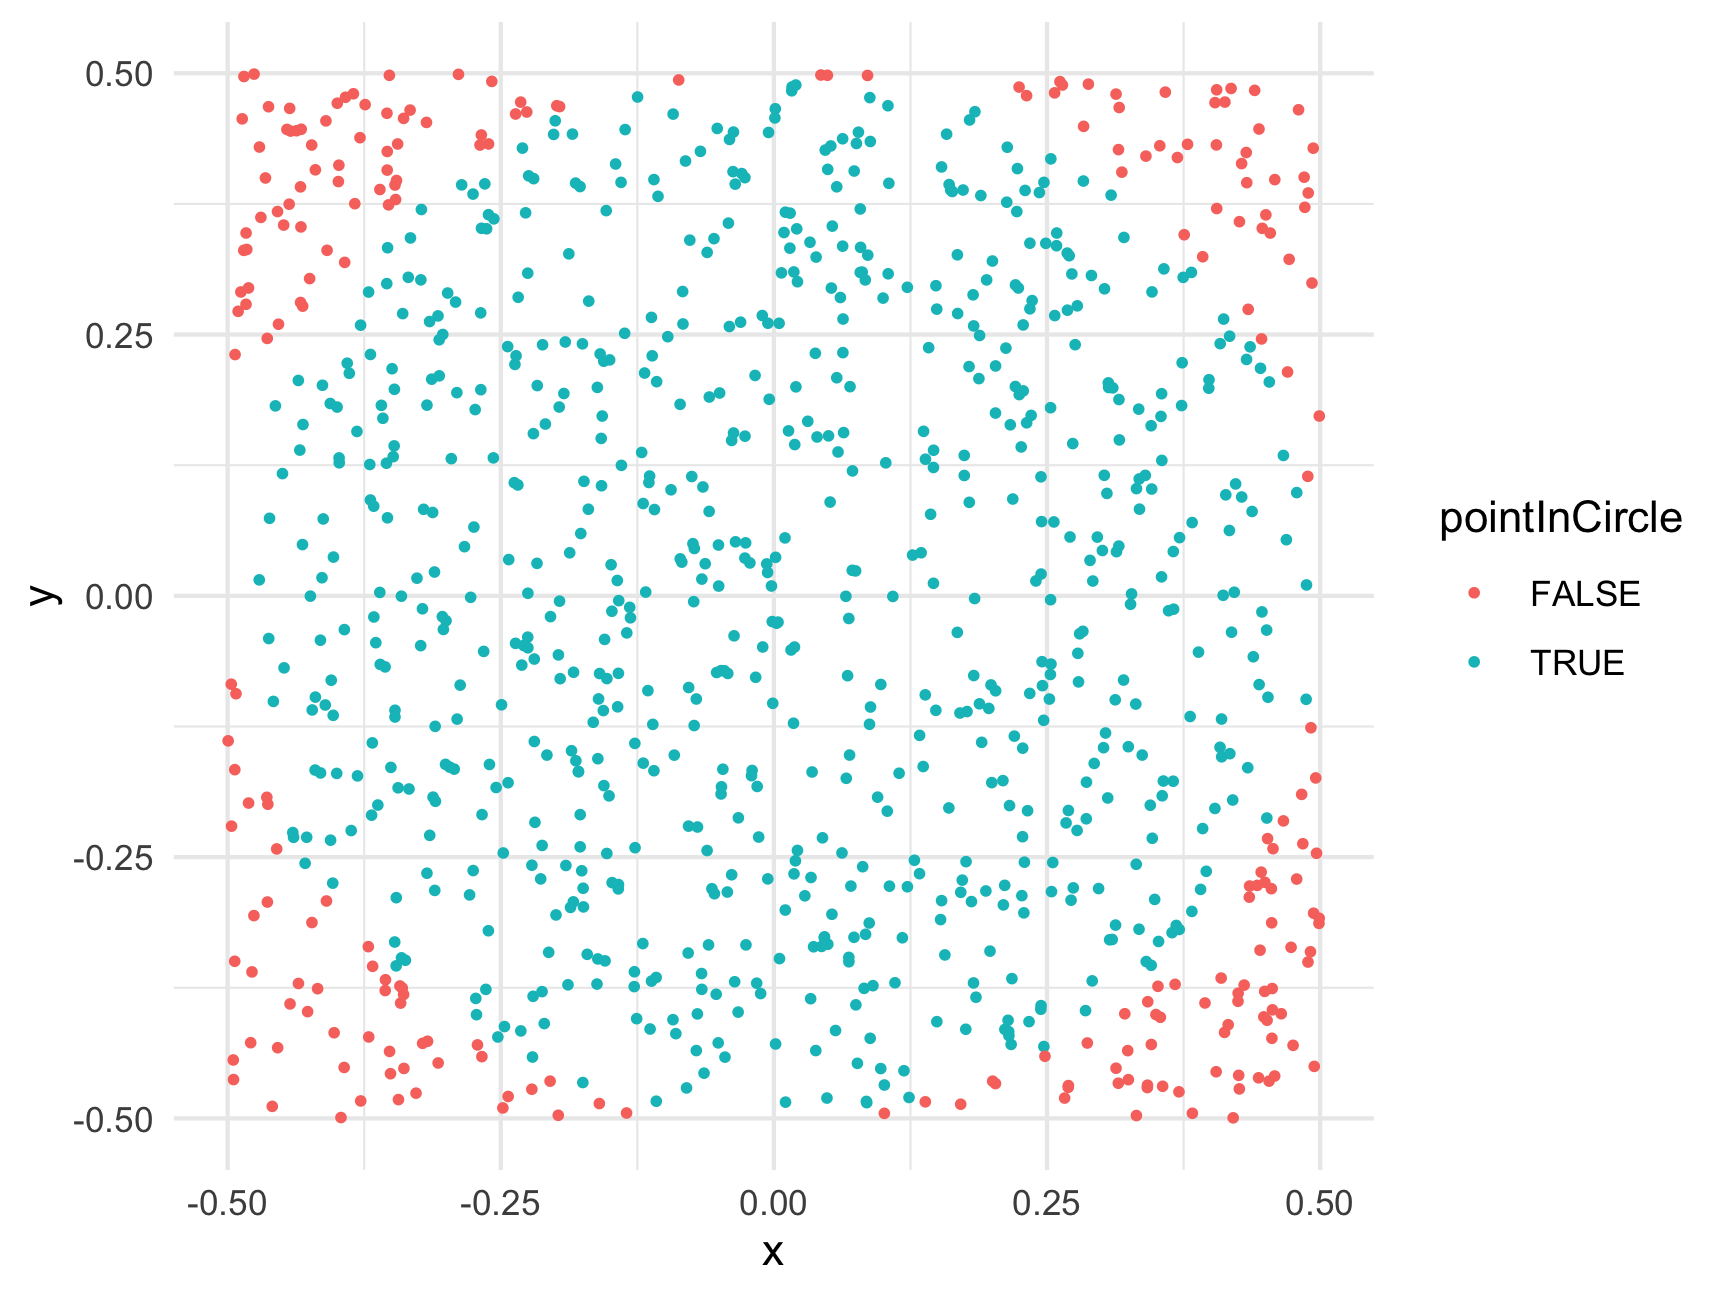
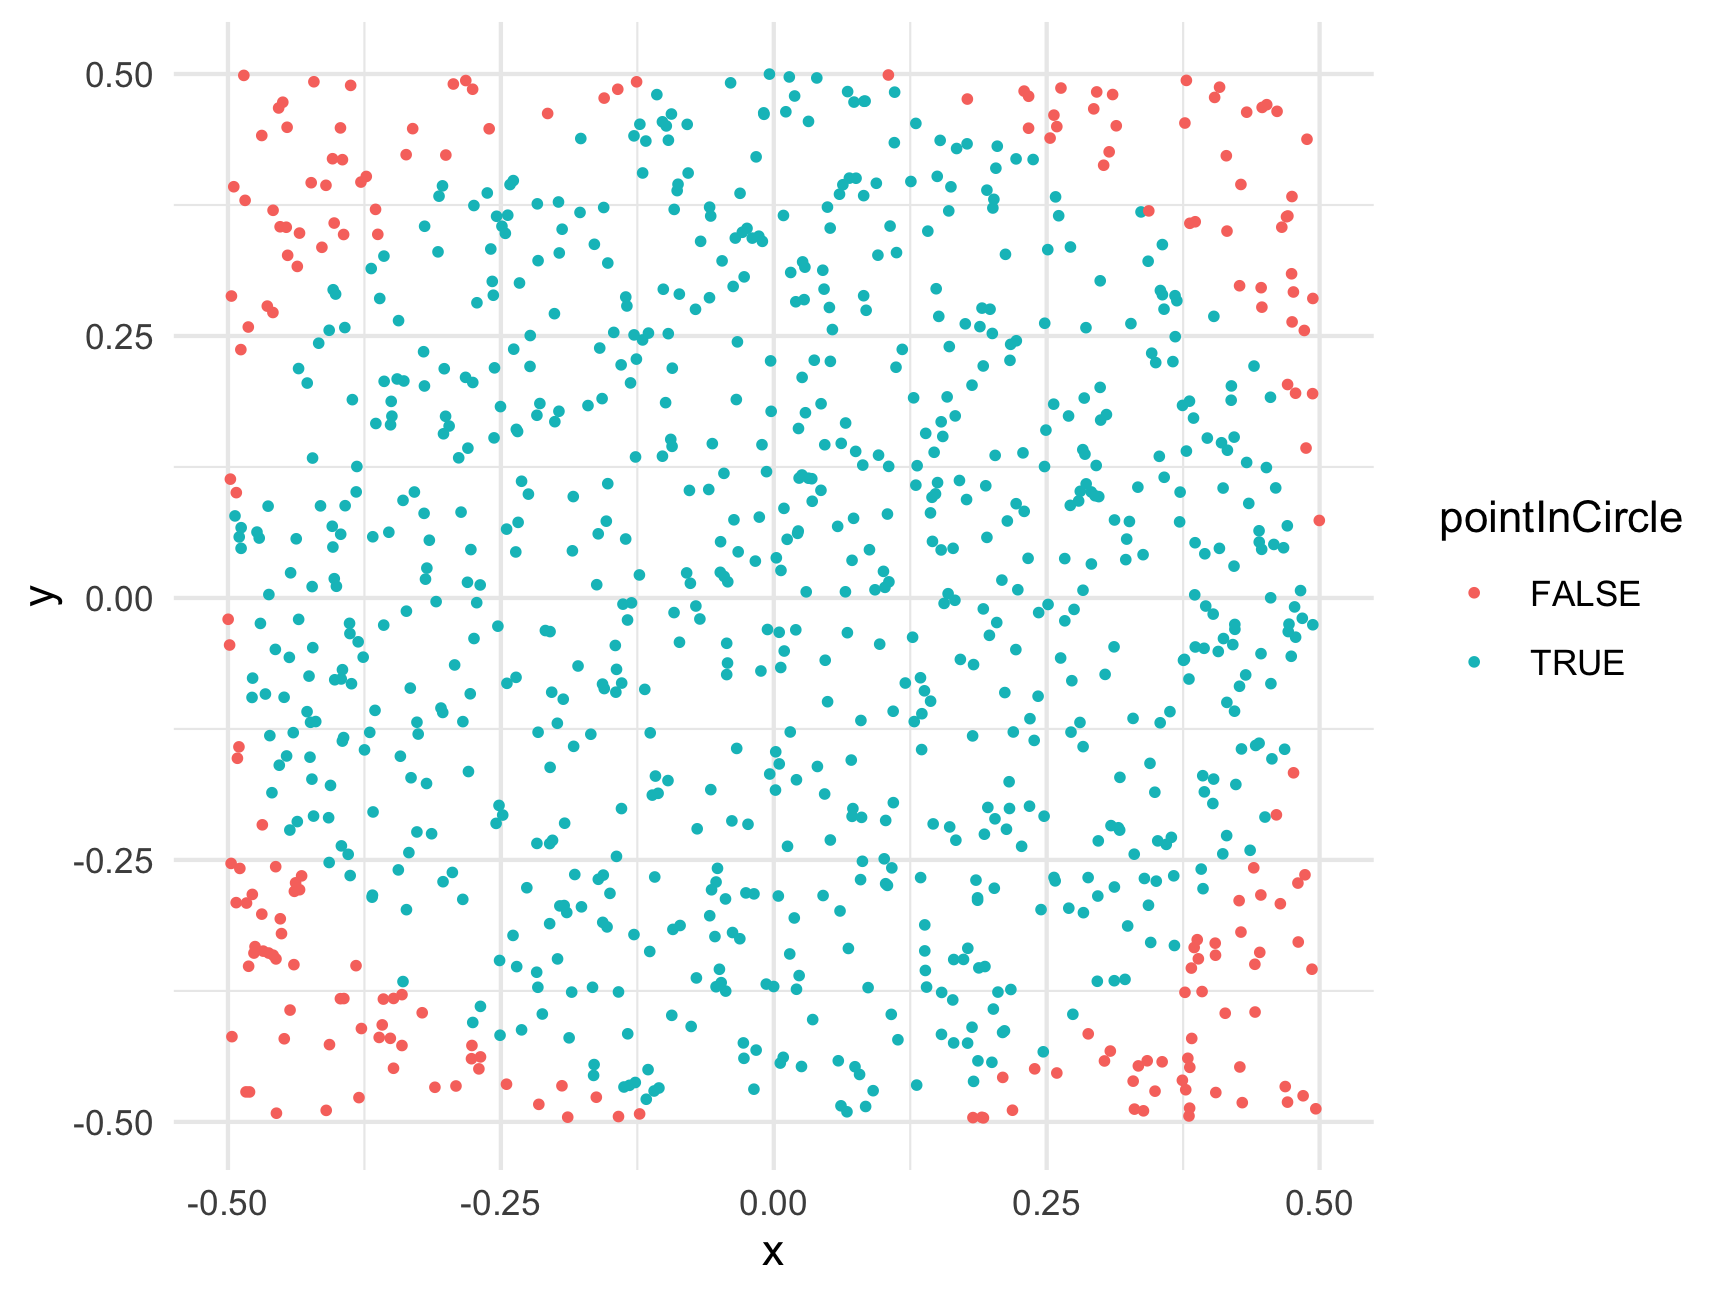
Deploying to gh-pages from  @ f4b20dd47dcd73c459fe203dee636026d0f98af0 🚀

diff --git a/hw3-creating-functions.html b/hw3-creating-functions.html
@@ -656,7 +656,90 @@ $(document).ready(function () {
 </div>
 
 
-<p>Coming soon!</p>
+<blockquote>
+<p><strong>Due</strong>: February 02 by 11:59pm</p>
+<p><strong>Submit</strong>: To submit this assignment, create a zip file of all the files in your R project folder for this assignment. Name the zip file <code>hw3-netID.zip</code>, replacing <code>netID</code> with your netID (e.g., <code>hw3-jph.zip</code>). Use <a href="https://u.pcloud.com/#page=puplink&amp;code=0VYkZuKVBHNoFEpSvYIkw8H2arVdmdcTV">this link</a> to submit your file.</p>
+<p><strong>Weight</strong>: This assignment is worth 5% of your final grade.</p>
+<p><strong>Purpose</strong>: The purposes of this assignment are:</p>
+<ul>
+<li>To practice creating your own functions in R from scratch.</li>
+<li>To practice writing code <em>using good style</em>.</li>
+<li>To practice problem solving (e.g. using Polya’s technique).</li>
+</ul>
+<p><strong>Assessment</strong>: Each question indicates the % of the assignment grade, summing to 100%. The credit for each question will be assigned as follows:</p>
+<ul>
+<li>0% for not attempting a response.</li>
+<li>50% for attempting the question but with <em>major</em> errors.</li>
+<li>75% for attempting the question but with <em>minor</em> errors.</li>
+<li>100% for correctly answering the question.</li>
+</ul>
+<p>The reflection portion is always worth 10% and graded for completion.</p>
+<p><strong>Rules</strong>:</p>
+<ul>
+<li>Problems marked <strong>SOLO</strong> may not be worked on with other classmates, though you may consult instructors for help.</li>
+<li>For problems marked <strong>COLLABORATIVE</strong>, you may work in groups of up to 3 students who are in this course this semester. You may not split up the work – everyone must work on every problem. And you may not simply copy any code but rather truly work together and submit your own solutions.</li>
+</ul>
+</blockquote>
+<div id="staying-organized-solo-5" class="section level3">
+<h3>1) Staying organized [SOLO, 5%]</h3>
+<p>As always, we’re going to use an R project to keep everything in this assignment tidy. Download and use <a href="templates/hw3.zip">this template</a> for your assignment. Inside the “hw3” folder, open and edit the R script called “hw3.R” and fill out your name, Net ID, and the names of anyone you worked with on this assignment.</p>
+</div>
+<div id="integersquarerootn-solo-10" class="section level3">
+<h3>2) <code>integerSquareRoot(n)</code> [SOLO, 10%]</h3>
+<p>Given a non-negative integer <code>n</code>, return the integer value that is closest to its square root. For example, <code>integerSquareRoot(10)</code> returns <code>3</code>.</p>
+</div>
+<div id="fabricyardsinches-solo-10" class="section level3">
+<h3>3) <code>fabricYards(inches)</code> [SOLO, 10%]</h3>
+<p>Fabric must be purchased in whole yards. Write a function that takes a non-negative number of inches of fabric desired, and returns the smallest number of whole yards of fabric that must be purchased. Thus, <code>fabricYards(1)</code> is <code>1</code> (you need a full yard if you buy one inch) and <code>fabricYards(36)</code> is also <code>1</code>, but <code>fabricYards(37)</code> is <code>2</code>. Hint: There are 36 inches in a yard!</p>
+</div>
+<div id="fabricexcessinches-solo-10" class="section level3">
+<h3>4) <code>fabricExcess(inches)</code> [SOLO, 10%]</h3>
+<p>Write a function that takes a non-negative number of inches of fabric desired and returns the number of inches of excess fabric that must be purchased (as purchases must be in whole yards). Thus, since you need a whole yard when you buy 1 inch, <code>fabricExcess(1)</code> is <code>35</code>. Similarly, <code>fabricExcess(36)</code> is <code>0</code>, and <code>fabricExcess(37)</code> is <code>35</code>.</p>
+<p>Hint: there are (at least) two good ways to write this. One way involves a simple expression using one of the math operators we have learned. The other way uses <code>fabricYards(inches)</code> (which you just wrote!).</p>
+</div>
+<div id="isperfectcubex-solo-15" class="section level3">
+<h3>5) <code>isPerfectCube(x)</code> [SOLO, 15%]</h3>
+<p>Given an integer value <code>x</code>, returns <code>TRUE</code> if it is a perfect cube and <code>FALSE</code> otherwise. That is, return <code>TRUE</code> if there is another integer <code>y</code> such that <code>x = y^3</code>. Thus, <code>isPerfectCube(27)</code> returns <code>TRUE</code>, but <code>isPerfectCube(16)</code> returns <code>FALSE</code>.</p>
+</div>
+<div id="kthdigitx-k-collaborative-15" class="section level3">
+<h3>6) <code>kthDigit(x, k)</code> [COLLABORATIVE, 15%]</h3>
+<p>Given two integers, <code>x</code> and <code>k</code>, return the kth digit of <code>x</code>, counting from the right. So:</p>
+<ul>
+<li><code>kthDigit(789, 1)</code> returns <code>9</code></li>
+<li><code>kthDigit(789, 2)</code> returns <code>8</code></li>
+<li><code>kthDigit(789, 3)</code> returns <code>7</code></li>
+<li><code>kthDigit(789, 4)</code> returns <code>0</code></li>
+</ul>
+<p>Negative numbers should work, too, so <code>kthDigit(-789, 1)</code> returns <code>9</code>.</p>
+</div>
+<div id="numberofpoolballsrows-collaborative-15" class="section level3">
+<h3>7) <code>numberOfPoolBalls(rows)</code> [COLLABORATIVE, 15%]</h3>
+<p><img src="images/poolballs.jpg" width="150" /></p>
+<p>Pool balls are arranged in rows where the first row contains 1 pool ball and each row contains 1 more pool ball than the previous row. Thus, for example, 3 rows contain 6 total pool balls (1+2+3). With this in mind, write the function <code>numberOfPoolBalls(rows)</code> that takes a non-negative integer value (the number of rows) and returns another integer value (the number of pool balls in that number of full rows). For example, <code>numberOfPoolBalls(3)</code> returns <code>6</code>. We will not limit our analysis to a “rack” of 15 balls; rather, our pool table can contain an unlimited number of rows. Hint: For this problem you should research <a href="https://en.wikipedia.org/wiki/Triangular_number">Triangular Numbers</a>.</p>
+</div>
+<div id="turtlesquares-collaborative-10" class="section level3">
+<h3>8) <code>turtleSquare(s)</code> [COLLABORATIVE, 10%]</h3>
+<p>(<em>Note: the autograder won’t test this function</em>)</p>
+<p>Write the function <code>turtleSquare(s)</code> which uses the <strong>TurtleGraphics</strong> package to draw a square with side length <code>s &lt; 100</code> (because the turtle will “escape” the terrarium when <code>s &gt;= 100</code>). The square should be centered in the turtle’s terrarium, and your turtle should be placed in the center when done. <strong>Important</strong>: Do not put the <code>turtle_init()</code> command inside your function - the turtle should already be “initialized” inside the terrarium before calling your <code>turtleSquare(s)</code> function. For example, the code below produces a square with side length of 50:</p>
+<pre class="r"><code>library(TurtleGraphics)
+turtle_init()
+turtleSquare(50)</code></pre>
+<p><img src="images/turtle_square.png" width="456" /></p>
+</div>
+<div id="read-and-reflect-solo-10" class="section level3">
+<h3>9) Read and reflect [SOLO, 10%]</h3>
+<p>Read and reflect on next week’s readings on <a href="r4.1-conditionals.html">conditionals</a> and <a href="r4.2-testing-debugging.html">testing &amp; debugging</a>. Afterwards, in a comment (<code>#</code>) in your R file, write a short reflection on what you’ve learned and any questions or points of confusion you have about what we’ve covered thus far. This can just few a few sentences related to this assignment, next week’s readings, things going on in the world that remind you something from class, etc. If there’s anything that jumped out at you, write it down.</p>
+<hr />
+</div>
+<div id="bonus-turtletriangles-solo-3" class="section level3">
+<h3><strong>Bonus</strong>: <code>turtleTriangle(s)</code> [SOLO, 3%]</h3>
+<p>(<em>Note: the autograder won’t test this function</em>)</p>
+<p>Write the function <code>turtleTriangle(s)</code> which uses the <strong>TurtleGraphics</strong> package to draw an equilateral triangle with side length <code>s &lt; 100</code>. The triangle should be centered in the turtle’s terrarium, and your turtle should be placed in the center when done. Just like with <code>turtleSquare(s)</code>, do not put the <code>turtle_init()</code> command inside your function - the turtle should already be “initialized” inside the terrarium before calling <code>turtleTriangle(s)</code>. Hint: Getting the triangle centered is the tricky part - you may want to read more about <a href="https://en.wikipedia.org/wiki/Equilateral_triangle">equilateral triangles</a> and <a href="https://en.wikipedia.org/wiki/Apothem">apothems</a>. The code below produces a triangle with side length of 50:</p>
+<pre class="r"><code>library(TurtleGraphics)
+turtle_init()
+turtleTriangle(50)</code></pre>
+<p><img src="images/turtle_triangle.png" width="456" /></p>
+</div>
 
 <hr>
 

diff --git a/r13-monte-carlo-methods.html b/r13-monte-carlo-methods.html
@@ -805,11 +805,11 @@ ratio &lt;- sum(belowCurve) / numTrials
 totalArea &lt;- (7 - 3) * 7^2 # Rectangle length x height = 196
 areaUnderCurve &lt;- ratio * totalArea
 areaUnderCurve</code></pre>
-<pre><code>#&gt; [1] 105.252</code></pre>
-<p>So, using Monte Carlo simulation with 100,000 points, we estimate that the area under the curve is 105.252. How’d we do? Well, if you’re familiar with calculus, the integral of <span class="math inline">\(f(x) = x^2\)</span> has a closed-form solution (<span class="math inline">\(\frac{x^3}{3} + C\)</span>), so we can check our estimate against the pure-math solution:</p>
+<pre><code>#&gt; [1] 105.0521</code></pre>
+<p>So, using Monte Carlo simulation with 100,000 points, we estimate that the area under the curve is 105.05208. How’d we do? Well, if you’re familiar with calculus, the integral of <span class="math inline">\(f(x) = x^2\)</span> has a closed-form solution (<span class="math inline">\(\frac{x^3}{3} + C\)</span>), so we can check our estimate against the pure-math solution:</p>
 <p><span class="math display">\[\int_{3}^{7} x^2 \mathrm{dx} = \left ( \frac{x^3}{3} \right ) \Big|_3^7 = \frac{7^3}{3} - \frac{3^3}{3} = 105.33\bar{3}\]</span></p>
-<p>So our estimate error is: <code>105.333 -</code> <code>105.252</code> <code>=</code> <code>0.0813333</code>.</p>
-<p>That’s an error of just 0.08 % - not bad!</p>
+<p>So our estimate error is: <code>105.333 -</code> <code>105.05208</code> <code>=</code> <code>0.2812533</code>.</p>
+<p>That’s an error of just 0.27 % - not bad!</p>
 <hr />
 </div>
 <div id="monte-carlo-pi" class="section level1">
@@ -839,13 +839,13 @@ points &lt;- data.frame(
     x = runif(numTrials, -0.5, 0.5),
     y = runif(numTrials, -0.5, 0.5))
 head(points)</code></pre>
-<pre><code>#&gt;            x          y
-#&gt; 1 -0.3422959 -0.3732784
-#&gt; 2 -0.2117594  0.2402524
-#&gt; 3  0.4093778 -0.3657143
-#&gt; 4  0.2143355 -0.4061124
-#&gt; 5 -0.2611805  0.4323747
-#&gt; 6 -0.4636235 -0.2929542</code></pre>
+<pre><code>#&gt;             x           y
+#&gt; 1  0.18521641 -0.26928447
+#&gt; 2  0.47043549  0.06885799
+#&gt; 3 -0.36147249 -0.41940025
+#&gt; 4 -0.07640925  0.01400151
+#&gt; 5  0.24482873 -0.29740277
+#&gt; 6  0.45539832 -0.08177945</code></pre>
 <p>For this example, we’re putting the points in a data frame to make it easier to work with. Now that we have random x and y points, let’s compute the radius to each point (the distance from <code>(x, y) = (0, 0)</code>) so we can determine which points fall inside the circle (which has a radius of 0.5):</p>
 <pre class="r"><code>library(dplyr)
 points &lt;- points %&gt;%
@@ -862,9 +862,9 @@ ggplot(points) +
 <pre class="r"><code>ratio &lt;- sum(points$pointInCircle) / nrow(points)
 piApprox &lt;- 4 * ratio
 piApprox</code></pre>
-<pre><code>#&gt; [1] 3.028</code></pre>
-<p>So our estimate error is: <code>3.1415 -</code> <code>3.028</code> <code>=</code> <code>-0.1135927</code>.</p>
-<p>That’s an error of just 3.62 % - not bad for only 1,000 points!</p>
+<pre><code>#&gt; [1] 3.172</code></pre>
+<p>So our estimate error is: <code>3.1415 -</code> <code>3.172</code> <code>=</code> <code>0.0304073</code>.</p>
+<p>That’s an error of just 0.97 % - not bad for only 1,000 points!</p>
 <p>To get an even better estimate of <span class="math inline">\(\pi\)</span>, we can increase N. Let’s see what we get with 100,000 trials:</p>
 <pre class="r"><code>numTrials &lt;- 100000
 points &lt;- data.frame(
@@ -876,13 +876,13 @@ points &lt;- data.frame(
 ratio &lt;- sum(points$pointInCircle) / nrow(points)
 piApprox &lt;- 4 * ratio
 piApprox</code></pre>
-<pre><code>#&gt; [1] 3.14532</code></pre>
+<pre><code>#&gt; [1] 3.14296</code></pre>
 <pre class="r"><code># Compute error:
 error &lt;- piApprox - pi
 percentError &lt;- round(100*abs(error / pi), 2)
 percentError</code></pre>
-<pre><code>#&gt; [1] 0.12</code></pre>
-<p>By increasing the number of trials from 1,000 to 100,000, we improved our estimate error from 3.62 % to 0.12 %!</p>
+<pre><code>#&gt; [1] 0.04</code></pre>
+<p>By increasing the number of trials from 1,000 to 100,000, we improved our estimate error from 0.97 % to 0.04 %!</p>
 <hr />
 <p><strong>Page sources</strong>:</p>
 <p>Some content on this page has been modified from other courses, including:</p>

diff --git a/r2-functions-packages.html b/r2-functions-packages.html
@@ -763,7 +763,7 @@ div.tocify {
 <p>Here the letters <code>sqrt</code> are short for “square root,” and the value inside the <code>()</code> is the “argument” to the function. In the example above, the value <code>225</code> is the “argument”.</p>
 <p>Keep in mind that not all functions have (or require) arguments:</p>
 <pre class="r"><code>date() # Returns the current date and time</code></pre>
-<pre><code>#&gt; [1] &quot;Tue Jan 25 21:05:59 2022&quot;</code></pre>
+<pre><code>#&gt; [1] &quot;Wed Jan 26 13:20:01 2022&quot;</code></pre>
 <p>(the date above is the date this page was last built)</p>
 <div id="multiple-arguments" class="section level2">
 <h2>Multiple arguments</h2>
@@ -981,9 +981,9 @@ library(packagename)   # This also works</code></pre>
 <p>Now that you have the package installed on your computer, try loading it using <code>library(wikifacts)</code>, then trying using some of it’s functions:</p>
 <pre class="r"><code>library(wikifacts) # Load the library</code></pre>
 <pre class="r"><code>wiki_randomfact()</code></pre>
-<pre><code>#&gt; [1] &quot;Here&#39;s some news from 05 November 2020. A shooting at Kabul University&#39;s campus, Afghanistan, leaves 35 people dead and 50 others injured. (Courtesy of Wikipedia)&quot;</code></pre>
+<pre><code>#&gt; [1] &quot;Here&#39;s some news from 13 April 2016. Pfizer and Allergan call off a planned $160 billion merger due to changes in U.S. tax inversion regulations. (Courtesy of Wikipedia)&quot;</code></pre>
 <pre class="r"><code>wiki_didyouknow()</code></pre>
-<pre><code>#&gt; [1] &quot;Did you know that the giant pinkray limpet maintains a patch of the encrusting red alga Hildenbrandia rubra on which it feeds, driving off competitors? (Courtesy of Wikipedia)&quot;</code></pre>
+<pre><code>#&gt; [1] &quot;Did you know that the tidepool sculpin can leave the rock pool in which it lives, and breathe air? (Courtesy of Wikipedia)&quot;</code></pre>
 <p>In case you’re wondering, the only thing this package does is generate messages containing random facts from <a href="https://www.wikipedia.org/">Wikipedia</a>.</p>
 </div>
 <div id="using-only-some-package-functions" class="section level2">
@@ -994,7 +994,7 @@ library(packagename)   # This also works</code></pre>
 </blockquote>
 <p>Here I use the name of the <em>package</em> followed by <code>::</code> to tell R that I’m looking for a function that is in that package. For example, if I didn’t want to load the whole <strong>wikifacts</strong> library but still wanted to use the <code>wiki_randomfact()</code> function, I could do this:</p>
 <pre class="r"><code>wikifacts::wiki_randomfact()</code></pre>
-<pre><code>#&gt; [1] &quot;Did you know that on November 7 in 1917 – World War I: British forces captured Gaza when the Ottoman garrison abandoned the area. (Courtesy of Wikipedia)&quot;</code></pre>
+<pre><code>#&gt; [1] &quot;Here&#39;s some news from 19 September 2021. The United States, United Kingdom and Australia sign a security pact that will provide Australia with nuclear submarines. (Courtesy of Wikipedia)&quot;</code></pre>
 <p>Where this is particularly handy is when two packages have a function with the same name. If you load both library, R might not know which function to use. In those cases, it’s best to also provide the <strong>package</strong> name. For example, let’s say there was a package called <strong>apples</strong> and another called <strong>bananas</strong>, and each had a function named <code>fruitName()</code>. If I wanted to use each of them in my code, I would need to specify the package names like this:</p>
 <pre class="r"><code>apples::fruitName()
 bananas::fruitName()</code></pre>
